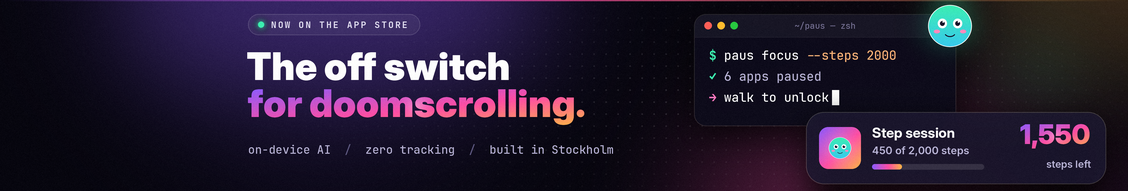
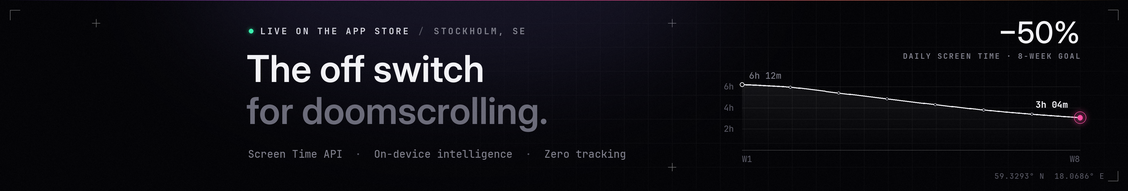
Redraw the LinkedIn cover in a cleaner, technical style
Black with a hairline engineering grid, registration marks and corner
brackets; "The off switch / for doomscrolling." in white and grey; a
monospace status line and stack; and one chart: daily screen time going
from 6h 12m to 3h 04m over eight weeks, labelled as the 8-week goal.
The only colour is a hairline of the brand gradient and the goal point.

Claude-Session: https://claude.ai/code/session_012Kq6TeAr3S1Grht9ZAyFjf

diff --git a/Brand/make_linkedin.py b/Brand/make_linkedin.py
@@ -1,8 +1,9 @@
 """Draws the cover image for the Paus company page on LinkedIn.
 
-LinkedIn shows a company cover at 1128 x 191 and puts the logo over its bottom left corner, so that corner
-is left empty. The image is drawn at four times that size and scaled down, which keeps every edge and
-letter sharp, and is saved at 2x and 1x.
+A clean, technical look: black, hairline grid, restrained type, one chart. LinkedIn shows a company cover
+at 1128 x 191 and puts the logo over its bottom left corner, so that corner stays empty. The image is
+drawn at four times that size and scaled down, which keeps hairlines and letters sharp, and is saved at
+2x and 1x.
 
 Run from the repository root: python3 Brand/make_linkedin.py
 """
@@ -11,19 +12,26 @@ import os
 import numpy as np
 from PIL import Image, ImageDraw, ImageFilter
 
-from make_brand import BLACK, BOLD, MINT, ORANGE, OUT, PINK, SEMI, VIOLET, WHITE, app_icon, font, gradient_text, pip, rounded
+from make_brand import FONTS, MINT, ORANGE, OUT, PINK, VIOLET, font
 
 HERE = os.path.dirname(os.path.abspath(__file__))
 MONO = os.path.join(HERE, "fonts", "JetBrainsMono-Medium.ttf")
 MONO_BOLD = os.path.join(HERE, "fonts", "JetBrainsMono-Bold.ttf")
+DISPLAY = f"{FONTS}/InterDisplay-SemiBold.otf"
+DISPLAY_MEDIUM = f"{FONTS}/InterDisplay-Medium.otf"
 
 BASE_W, BASE_H = 1128, 191
 K = 4  # Drawing scale: four times LinkedIn's size.
 W, H = BASE_W * K, BASE_H * K
+HAIR = 0.5  # A hairline: one pixel in the 2x image.
 
-INK = (7, 6, 15)
-GREY = (185, 180, 214)
-DIM = (120, 115, 150)
+BG = (5, 5, 8)
+WHITE = (242, 242, 246)
+GREY = (128, 128, 140)
+FAINT = (88, 88, 100)
+
+# The illustrated 8-week goal: from 6h 12m a day down to 3h 04m, half the screen time.
+WEEKS = [6.2, 5.95, 5.4, 4.85, 4.3, 3.8, 3.4, 3.07]
 
 
 def u(value):
@@ -35,177 +43,169 @@ def layer():
     return Image.new("RGBA", (W, H), (0, 0, 0, 0))
 
 
-def blurred_ellipse(img, cx, cy, rx, ry, color, alpha, blur):
-    glow = layer()
-    ImageDraw.Draw(glow).ellipse([u(cx - rx), u(cy - ry), u(cx + rx), u(cy + ry)], fill=(*color, alpha))
-    img.alpha_composite(glow.filter(ImageFilter.GaussianBlur(u(blur))))
-
-
-def background():
-    img = Image.new("RGBA", (W, H), (*INK, 255))
-    # Aurora: violet behind the words, pink and orange behind the product, a touch of mint by Pip.
-    blurred_ellipse(img, 330, 30, 260, 120, VIOLET, 95, 70)
-    blurred_ellipse(img, 880, 175, 230, 110, PINK, 80, 70)
-    blurred_ellipse(img, 1080, 20, 150, 90, ORANGE, 50, 60)
-    blurred_ellipse(img, 1040, 70, 70, 50, MINT, 45, 40)
-
-    # A dot grid that fades out towards the edges.
-    dots = layer()
-    d = ImageDraw.Draw(dots)
-    step, r = 12, 0.7
-    for y in range(6, BASE_H, step):
-        for x in range(6, BASE_W, step):
-            d.ellipse([u(x - r), u(y - r), u(x + r), u(y + r)], fill=(255, 255, 255, 255))
-    yy, xx = np.mgrid[0:H, 0:W].astype(np.float32)
-    distance = np.sqrt(((xx - u(720)) / u(560)) ** 2 + ((yy - u(95)) / u(150)) ** 2)
-    fade = np.clip(1 - distance, 0, 1) ** 1.4 * 0.16
-    alpha = np.array(dots.getchannel("A"), np.float32) * fade
-    dots.putalpha(Image.fromarray(alpha.astype(np.uint8)))
-    img.alpha_composite(dots)
-
-    # A thin line of light along the top edge.
-    line = np.zeros((u(1.2), W, 4), np.uint8)
-    t = np.linspace(0, 1, W)
-    colors = np.stack([np.interp(t, [0, 0.5, 1], [VIOLET[c], PINK[c], ORANGE[c]]) for c in range(3)], -1)
-    line[..., :3] = colors.astype(np.uint8)
-    line[..., 3] = (np.sin(np.pi * t) * 170).astype(np.uint8)
-    img.alpha_composite(Image.fromarray(line, "RGBA"), (0, 0))
-    return img
-
-
-def text(img, xy, s, path, size, fill, anchor="la", spacing=0):
+def text(img, xy, s, path, size, fill, anchor="la", spacing=0.0):
+    """Draws `s`, letter-spaced by `spacing` base units when given, and returns its width in base units."""
     d = ImageDraw.Draw(img)
     f = font(path, u(size))
     if not spacing:
         d.text((u(xy[0]), u(xy[1])), s, font=f, fill=fill, anchor=anchor)
         return d.textlength(s, font=f) / K
-    # Letter-spaced, for small capitals.
-    x = u(xy[0])
+    width = sum(d.textlength(ch, font=f) for ch in s) + u(spacing) * (len(s) - 1)
+    x = u(xy[0]) - (width if anchor[0] == "r" else 0)
     for ch in s:
-        d.text((x, u(xy[1])), ch, font=f, fill=fill, anchor=anchor)
+        d.text((x, u(xy[1])), ch, font=f, fill=fill, anchor="l" + anchor[1])
         x += d.textlength(ch, font=f) + u(spacing)
-    return (x - u(xy[0])) / K
+    return width / K
 
 
-def headline(img, x, y):
-    # A pill above the headline.
-    pill = layer()
-    d = ImageDraw.Draw(pill)
-    label = "NOW ON THE APP STORE"
-    f = font(MONO_BOLD, u(9))
-    width = sum(d.textlength(ch, font=f) + u(1.6) for ch in label) / K + 34
-    d.rounded_rectangle([u(x), u(y), u(x + width), u(y + 21)], u(10.5), fill=(255, 255, 255, 14), outline=(255, 255, 255, 46), width=u(0.8))
-    img.alpha_composite(pill)
-    blurred_ellipse(img, x + 13, y + 10.5, 6, 6, MINT, 160, 3)
-    ImageDraw.Draw(img).ellipse([u(x + 10), u(y + 7.5), u(x + 16), u(y + 13.5)], fill=MINT)
-    text(img, (x + 23, y + 10.8), label, MONO_BOLD, 9, (225, 222, 240), anchor="lm", spacing=1.6)
-
-    # The headline: white, then the brand gradient.
-    text(img, (x - 1.5, y + 29), "The off switch", BLACK, 38, WHITE)
-    word = gradient_text("for doomscrolling.", u(38))
-    img.alpha_composite(word, (u(x - 1.5), u(y + 74)))
-
-    # What it is built on, in monospace for the engineers.
-    tags = ["on-device AI", "zero tracking", "built in Stockholm"]
-    cx = x
-    ty = y + 128
-    for i, tag in enumerate(tags):
-        if i:
-            cx += text(img, (cx, ty), "  /  ", MONO, 11.5, (95, 90, 130))
-        cx += text(img, (cx, ty), tag, MONO, 11.5, GREY)
+def radial_fade(cx, cy, rx, ry, power=1.6):
+    yy, xx = np.mgrid[0:H, 0:W].astype(np.float32)
+    distance = np.sqrt(((xx - u(cx)) / u(rx)) ** 2 + ((yy - u(cy)) / u(ry)) ** 2)
+    return np.clip(1 - distance, 0, 1) ** power
 
 
-def shadow(img, box, radius, alpha=150, blur=14, offset=8):
-    s = layer()
-    x0, y0, x1, y1 = box
-    ImageDraw.Draw(s).rounded_rectangle([u(x0), u(y0 + offset), u(x1), u(y1 + offset)], u(radius), fill=(0, 0, 0, alpha))
-    img.alpha_composite(s.filter(ImageFilter.GaussianBlur(u(blur))))
-
-
-def terminal(img, x, y, w, h):
-    shadow(img, (x, y, x + w, y + h), 12, alpha=170, blur=16, offset=10)
-    card = layer()
-    d = ImageDraw.Draw(card)
-    d.rounded_rectangle([u(x), u(y), u(x + w), u(y + h)], u(12), fill=(14, 12, 28, 238), outline=(255, 255, 255, 34), width=u(0.8))
-    img.alpha_composite(card)
-    # Title bar, rounded only at the top.
-    bar = layer()
-    d = ImageDraw.Draw(bar)
-    d.rounded_rectangle([u(x + 0.8), u(y + 0.8), u(x + w - 0.8), u(y + 23)], u(11.5), fill=(255, 255, 255, 11))
-    d.rectangle([u(x + 0.8), u(y + 12), u(x + w - 0.8), u(y + 23)], fill=(255, 255, 255, 11))
-    d.line([u(x + 0.8), u(y + 23), u(x + w - 0.8), u(y + 23)], fill=(255, 255, 255, 26), width=u(0.6))
-    img.alpha_composite(bar)
-    d = ImageDraw.Draw(img)
-    for i, color in enumerate([(255, 95, 87), (254, 188, 46), (40, 200, 64)]):
-        cx = x + 14 + i * 13
-        d.ellipse([u(cx - 3.8), u(y + 11.5 - 3.8), u(cx + 3.8), u(y + 11.5 + 3.8)], fill=color)
-    text(img, (x + w / 2, y + 11.8), "~/paus — zsh", MONO, 8.5, DIM, anchor="mm")
-
-    lx, ly, lh = x + 15, y + 33, 21
-    size = 12.5
-    cx = lx + text(img, (lx, ly), "$ ", MONO_BOLD, size, MINT)
-    cx += text(img, (cx, ly), "paus focus ", MONO, size, WHITE)
-    text(img, (cx, ly), "--steps 2000", MONO, size, (255, 180, 120))
-    cx = lx + text(img, (lx, ly + lh), "✓ ", MONO_BOLD, size, MINT)
-    text(img, (cx, ly + lh), "6 apps paused", MONO, size, GREY)
-    cx = lx + text(img, (lx, ly + 2 * lh), "→ ", MONO_BOLD, size, (255, 120, 190))
-    cx += text(img, (cx, ly + 2 * lh), "walk to unlock", MONO, size, WHITE)
-    d = ImageDraw.Draw(img)
-    d.rectangle([u(cx + 3), u(ly + 2 * lh + 1), u(cx + 10), u(ly + 2 * lh + 16)], fill=(255, 255, 255, 220))
-
-
-def live_activity(img, x, y, w, h):
-    """The step session as it shows on the Lock Screen."""
-    shadow(img, (x, y, x + w, y + h), 18, alpha=190, blur=14, offset=8)
-    # Frosted glass: blur what is behind the card.
-    box = (u(x), u(y), u(x + w), u(y + h))
-    behind = img.crop(box).filter(ImageFilter.GaussianBlur(u(8)))
-    mask = Image.new("L", behind.size, 0)
-    ImageDraw.Draw(mask).rounded_rectangle([0, 0, behind.width - 1, behind.height - 1], u(18), fill=255)
-    img.paste(behind, box[:2], mask)
-    card = layer()
-    d = ImageDraw.Draw(card)
-    d.rounded_rectangle([u(x), u(y), u(x + w), u(y + h)], u(18), fill=(30, 26, 52, 200), outline=(255, 255, 255, 52), width=u(0.8))
-    img.alpha_composite(card)
-
-    icon = rounded(app_icon(u(42)).convert("RGB"))
-    img.alpha_composite(icon, (u(x + 13), u(y + (h - 42) / 2)))
-    tx = x + 66
-    text(img, (tx, y + 12), "Step session", BOLD, 14, WHITE)
-    text(img, (tx, y + 32), "450 of 2,000 steps", SEMI, 10.5, GREY)
-    # Progress.
-    bar = layer()
-    d = ImageDraw.Draw(bar)
-    bx0, by, bx1 = tx, y + 52, tx + 112
-    d.rounded_rectangle([u(bx0), u(by), u(bx1), u(by + 5.5)], u(2.75), fill=(255, 255, 255, 30))
-    img.alpha_composite(bar)
-    fill = gradient_bar(u(bx1 - bx0) * 450 // 2000 + u(5), u(5.5))
-    img.alpha_composite(fill, (u(bx0), u(by)))
-    number = gradient_text("1,550", u(27))
-    img.alpha_composite(number, (u(x + w - 15) - number.width, u(y + 11)))
-    text(img, (x + w - 15, y + 46), "steps left", SEMI, 10, GREY, anchor="ra")
-
-
-def gradient_bar(width, height):
-    t = np.linspace(0, 1, max(width, 1))
-    colors = np.stack([np.interp(t, [0, 0.55, 1], [VIOLET[c], PINK[c], ORANGE[c]]) for c in range(3)], -1)
-    bar = np.zeros((height, max(width, 1), 4), np.uint8)
-    bar[..., :3] = colors.astype(np.uint8)
-    bar[..., 3] = 255
-    img = Image.fromarray(bar, "RGBA")
-    mask = Image.new("L", img.size, 0)
-    ImageDraw.Draw(mask).rounded_rectangle([0, 0, img.width - 1, img.height - 1], height // 2, fill=255)
-    img.putalpha(mask)
+def with_alpha(img, fade, strength):
+    alpha = np.array(img.getchannel("A"), np.float32) * fade * strength
+    img.putalpha(Image.fromarray(np.clip(alpha, 0, 255).astype(np.uint8)))
     return img
 
 
-def pip_on_top(img, cx, cy, size):
-    blurred_ellipse(img, cx, cy, size * 0.75, size * 0.6, MINT, 90, size * 0.35)
-    p = pip(u(size))
-    img.alpha_composite(p, (u(cx) - p.width // 2, u(cy) - p.height // 2))
+def background():
+    img = Image.new("RGBA", (W, H), (*BG, 255))
+
+    # An engineering grid, strongest behind the chart and fading towards the edges.
+    grid = layer()
+    d = ImageDraw.Draw(grid)
+    step = 24
+    for x in range(0, BASE_W + 1, step):
+        d.line([(u(x), 0), (u(x), H)], fill=(255, 255, 255, 255), width=u(HAIR))
+    for y in range(-1, BASE_H + 1, step):
+        d.line([(0, u(y)), (W, u(y))], fill=(255, 255, 255, 255), width=u(HAIR))
+    img.alpha_composite(with_alpha(grid, radial_fade(820, 95, 520, 170, 1.2), 0.07))
+
+    # Registration crosses on a few grid points.
+    marks = layer()
+    d = ImageDraw.Draw(marks)
+    for x, y in [(96, 23), (672, 23), (672, 167)]:
+        d.line([(u(x - 4), u(y)), (u(x + 4), u(y))], fill=(255, 255, 255, 120), width=u(HAIR))
+        d.line([(u(x), u(y - 4)), (u(x), u(y + 4))], fill=(255, 255, 255, 120), width=u(HAIR))
+    # Corner brackets, like the frame of an instrument.
+    for cx, cy, sx, sy in [(10, 10, 1, 1), (BASE_W - 10, 10, -1, 1), (BASE_W - 10, BASE_H - 10, -1, -1)]:
+        d.line([(u(cx), u(cy)), (u(cx + 10 * sx), u(cy))], fill=(255, 255, 255, 110), width=u(HAIR))
+        d.line([(u(cx), u(cy)), (u(cx), u(cy + 10 * sy))], fill=(255, 255, 255, 110), width=u(HAIR))
+    img.alpha_composite(marks)
+
+    # A barely-there light from above the headline, so the black has depth.
+    light = layer()
+    ImageDraw.Draw(light).ellipse([u(150), u(-140), u(760), u(120)], fill=(120, 110, 200, 40))
+    img.alpha_composite(light.filter(ImageFilter.GaussianBlur(u(60))))
+
+    # The only colour in the frame: a hairline of the brand gradient along the top.
+    t = np.linspace(0, 1, W)
+    line = np.zeros((u(HAIR), W, 4), np.uint8)
+    line[..., :3] = np.stack([np.interp(t, [0, 0.5, 1], [VIOLET[c], PINK[c], ORANGE[c]]) for c in range(3)], -1).astype(np.uint8)
+    line[..., 3] = (np.clip(np.sin(np.pi * t) * 1.4, 0, 1) * 200).astype(np.uint8)
+    img.alpha_composite(Image.fromarray(line, "RGBA"), (0, 0))
+    return img
 
 
-def grain(img, amount=5):
+def headline(img, x, y):
+    # Status line.
+    glow = layer()
+    ImageDraw.Draw(glow).ellipse([u(x - 1), u(y + 1), u(x + 7), u(y + 9)], fill=(*MINT, 150))
+    img.alpha_composite(glow.filter(ImageFilter.GaussianBlur(u(2.5))))
+    d = ImageDraw.Draw(img)
+    d.ellipse([u(x + 0.8), u(y + 2.8), u(x + 5.2), u(y + 7.2)], fill=MINT)
+    cx = x + 12
+    cx += text(img, (cx, y + 5), "LIVE ON THE APP STORE", MONO_BOLD, 9, (210, 210, 220), anchor="lm", spacing=1.7)
+    cx += text(img, (cx + 10, y + 5), "/", MONO, 9, FAINT, anchor="lm") + 20
+    text(img, (cx, y + 5), "STOCKHOLM, SE", MONO_BOLD, 9, GREY, anchor="lm", spacing=1.7)
+
+    # Two lines, white then grey: confident, quiet type.
+    text(img, (x - 1.5, y + 20), "The off switch", DISPLAY, 37, WHITE)
+    text(img, (x - 1.5, y + 62), "for doomscrolling.", DISPLAY, 37, (108, 108, 122))
+
+    # What it is built on.
+    tags = ["Screen Time API", "On-device intelligence", "Zero tracking"]
+    cx = x
+    for i, tag in enumerate(tags):
+        if i:
+            cx += text(img, (cx, y + 121), "  ·  ", MONO, 10.5, FAINT)
+        cx += text(img, (cx, y + 121), tag, MONO, 10.5, GREY)
+
+
+def smooth(points, samples=24):
+    """A Catmull-Rom curve through `points`."""
+    pts = [points[0]] + points + [points[-1]]
+    out = []
+    for i in range(1, len(pts) - 2):
+        p0, p1, p2, p3 = (np.array(p, float) for p in pts[i - 1:i + 3])
+        for s in range(samples):
+            t = s / samples
+            out.append(0.5 * ((2 * p1) + (-p0 + p2) * t + (2 * p0 - 5 * p1 + 4 * p2 - p3) * t ** 2 + (-p0 + 3 * p1 - 3 * p2 + p3) * t ** 3))
+    out.append(np.array(points[-1], float))
+    return [tuple(p) for p in out]
+
+
+def chart(img, x0, y0, x1, y1):
+    top_hours = 7.0
+
+    def py(hours):
+        return y1 - hours / top_hours * (y1 - y0)
+
+    # Gridlines and their labels.
+    rules = layer()
+    rd = ImageDraw.Draw(rules)
+    for hours in (2, 4, 6):
+        rd.line([(u(x0), u(py(hours))), (u(x1), u(py(hours)))], fill=(255, 255, 255, 22), width=u(HAIR))
+        text(img, (x0 - 8, py(hours)), f"{hours}h", MONO, 8.5, FAINT, anchor="rm")
+    rd.line([(u(x0), u(y1)), (u(x1), u(y1))], fill=(255, 255, 255, 60), width=u(HAIR))
+    img.alpha_composite(rules)
+    text(img, (x0, y1 + 9), "W1", MONO, 8.5, FAINT, anchor="lm")
+    text(img, (x1, y1 + 9), "W8", MONO, 8.5, FAINT, anchor="rm")
+
+    xs = np.linspace(x0, x1, len(WEEKS))
+    points = [(float(x), py(h)) for x, h in zip(xs, WEEKS)]
+    curve = smooth(points)
+
+    # A soft fill under the line, fading towards the axis.
+    fill = layer()
+    ImageDraw.Draw(fill).polygon([(u(px), u(qy)) for px, qy in curve] + [(u(x1), u(y1)), (u(x0), u(y1))], fill=(255, 255, 255, 255))
+    rows = np.arange(H, dtype=np.float32)[:, None]
+    vertical = np.clip((u(y1) - rows) / (u(y1) - u(y0)), 0, 1) * np.ones((1, W), np.float32)
+    img.alpha_composite(with_alpha(fill, vertical, 0.07))
+
+    # The line itself.
+    line = layer()
+    ImageDraw.Draw(line).line([(u(px), u(qy)) for px, qy in curve], fill=WHITE, width=u(1.2), joint="curve")
+    img.alpha_composite(line)
+
+    # Week ticks along the line.
+    d = ImageDraw.Draw(img)
+    for px, qy in points[1:-1]:
+        d.ellipse([u(px - 1.3), u(qy - 1.3), u(px + 1.3), u(qy + 1.3)], fill=BG, outline=(200, 200, 210), width=u(HAIR))
+
+    # Start: a hollow point and today's number.
+    sx, sy = points[0]
+    d.ellipse([u(sx - 2.2), u(sy - 2.2), u(sx + 2.2), u(sy + 2.2)], fill=BG, outline=WHITE, width=u(0.8))
+    text(img, (sx + 7, sy - 9), "6h 12m", MONO, 9, GREY, anchor="lm")
+
+    # End: the goal, marked in the brand pink.
+    ex, ey = points[-1]
+    halo = layer()
+    ImageDraw.Draw(halo).ellipse([u(ex - 9), u(ey - 9), u(ex + 9), u(ey + 9)], fill=(*PINK, 70))
+    img.alpha_composite(halo.filter(ImageFilter.GaussianBlur(u(3))))
+    d = ImageDraw.Draw(img)
+    d.ellipse([u(ex - 6), u(ey - 6), u(ex + 6), u(ey + 6)], outline=(*PINK, 200), width=u(HAIR))
+    d.ellipse([u(ex - 2.6), u(ey - 2.6), u(ex + 2.6), u(ey + 2.6)], fill=PINK)
+    text(img, (ex - 12, ey - 13), "3h 04m", MONO_BOLD, 9, WHITE, anchor="rm")
+
+    # The headline number, above the plot on the right.
+    text(img, (x1, y0 - 62), "−50%", DISPLAY_MEDIUM, 30, WHITE, anchor="ra")
+    text(img, (x1, y0 - 20), "DAILY SCREEN TIME · 8-WEEK GOAL", MONO_BOLD, 7.5, GREY, anchor="rm", spacing=1.2)
+
+
+def grain(img, amount=3.0):
     rgb = np.array(img.convert("RGB"), np.int16)
     noise = np.random.default_rng(7).normal(0, amount, rgb.shape[:2])[..., None]
     return Image.fromarray(np.clip(rgb + noise, 0, 255).astype(np.uint8), "RGB")
@@ -213,10 +213,9 @@ def grain(img, amount=5):
 
 def company_cover():
     img = background()
-    headline(img, 248, 14)
-    terminal(img, 694, 14, 262, 112)
-    live_activity(img, 806, 112, 300, 72)
-    pip_on_top(img, 950, 26, 46)
+    headline(img, 248, 26)
+    chart(img, 742, 76, 1080, 150)
+    text(img, (BASE_W - 24, BASE_H - 15), "59.3293° N  18.0686° E", MONO, 7.5, FAINT, anchor="rm", spacing=0.6)
     return grain(img)
 
 
